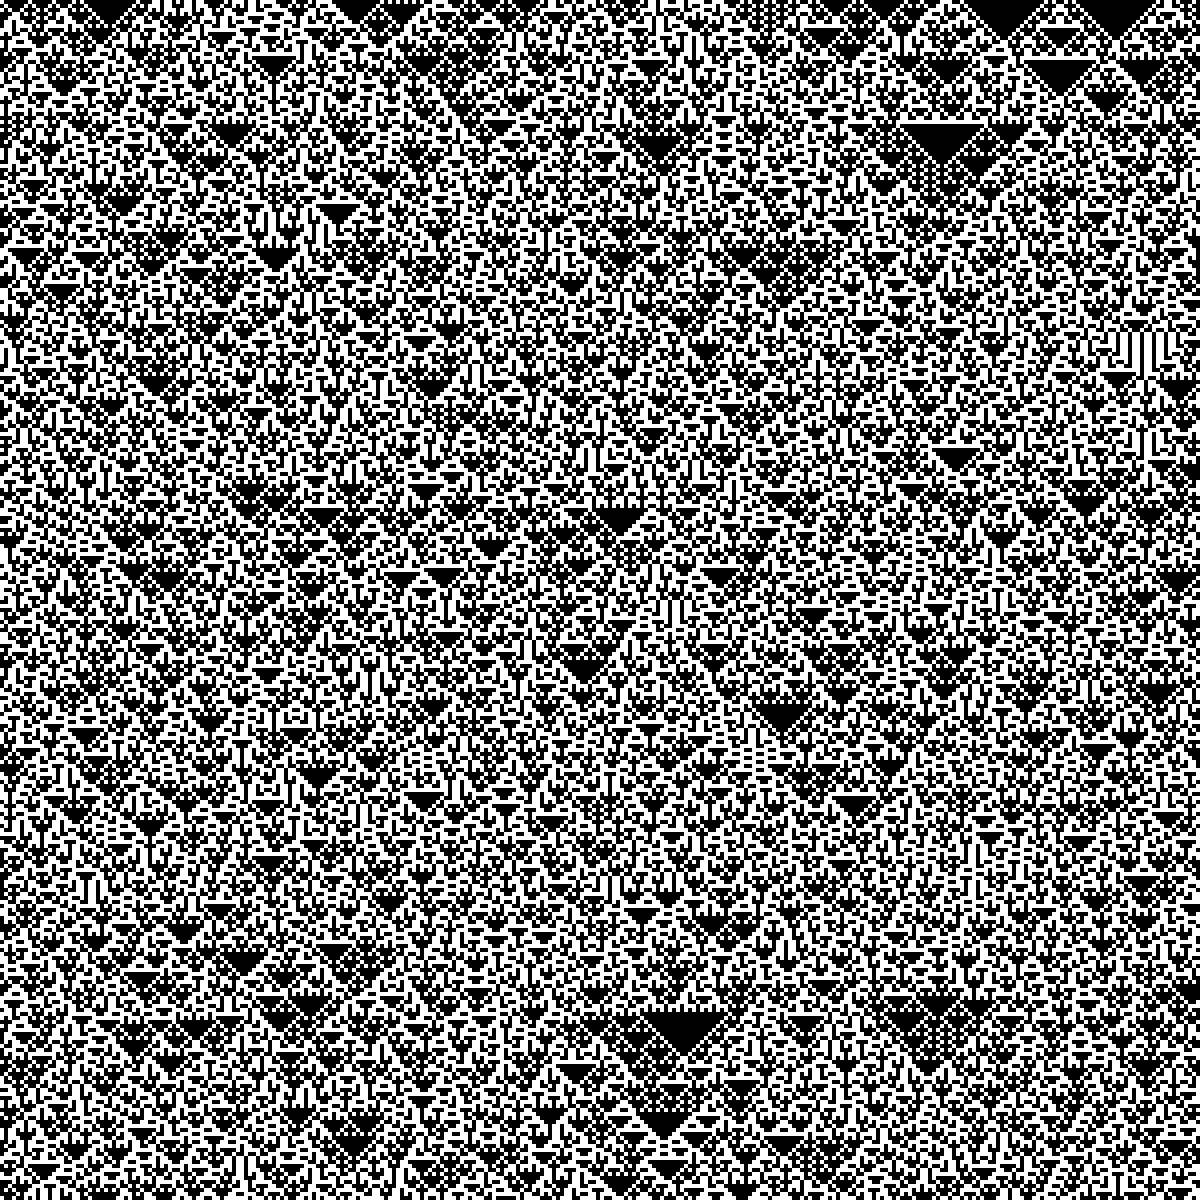
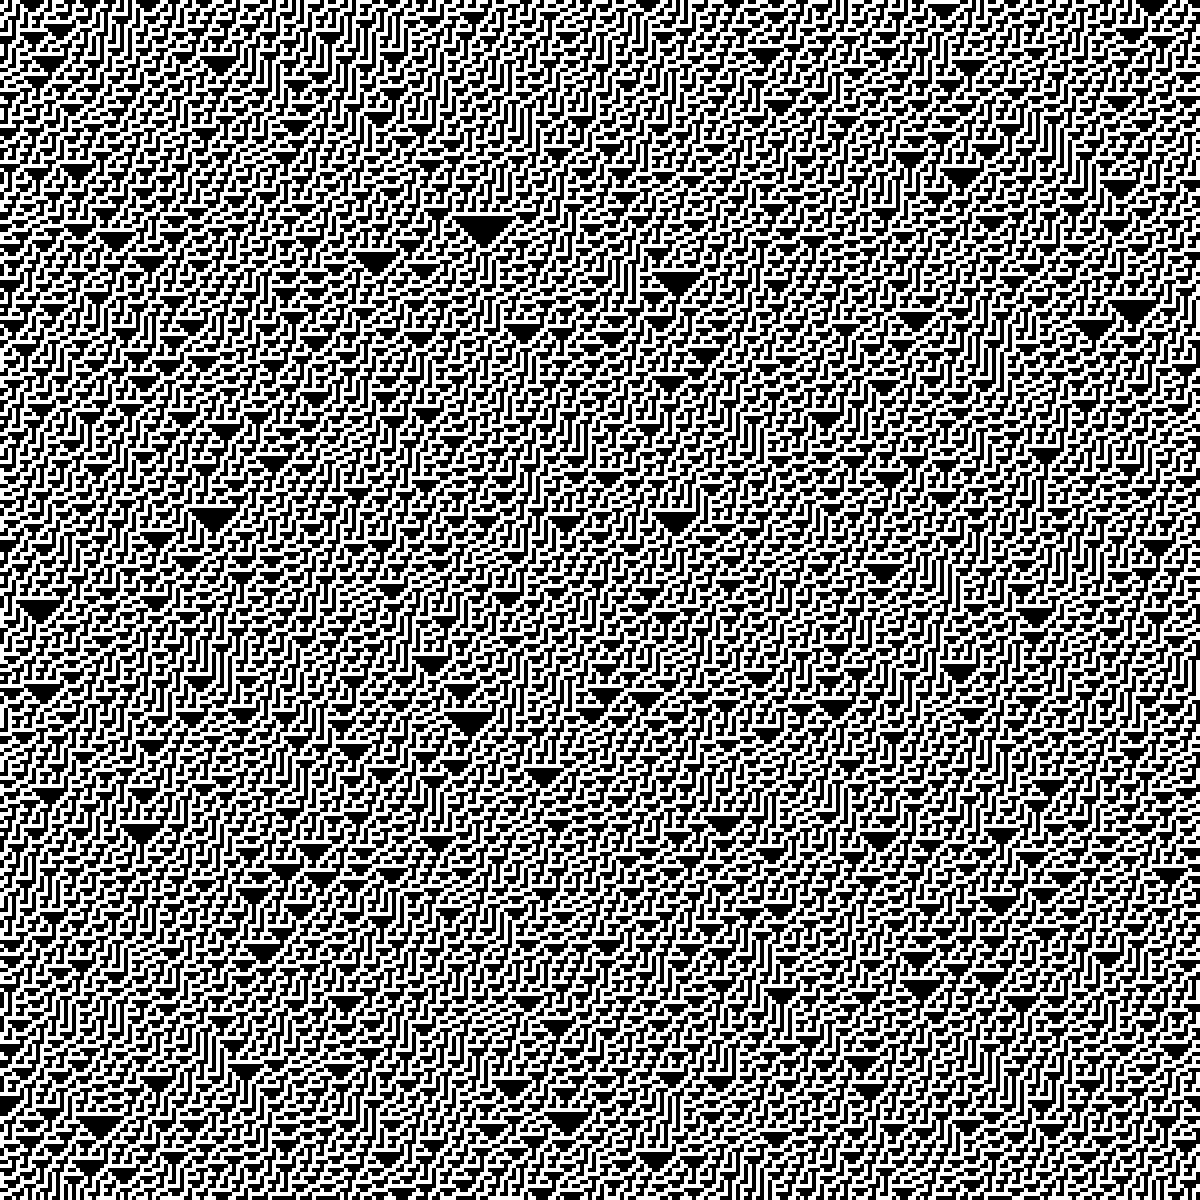
Update imgs

diff --git a/simulation/elementary_CA_pixels.py b/simulation/elementary_CA_pixels.py
@@ -1,10 +1,10 @@
 import taichi as ti
-ti.init(arch=ti.gpu)
+ti.init(arch=ti.cpu)
 
-# ruleset = [0, 0, 0, 1, 1, 1, 1, 0] # rule 30
+ruleset = [0, 0, 0, 1, 1, 1, 1, 0] # rule 30
 # ruleset = [0, 1, 0, 0, 1, 0, 0, 1] # rule 73
 # ruleset = [0, 1, 0, 1, 1, 0, 1, 0] # rule 90
-ruleset = [1, 0, 0, 1, 1, 0, 1, 0] # rule 154
+# ruleset = [1, 0, 0, 1, 1, 0, 1, 0] # rule 154
 
 cell_size = 4
 n = 300
